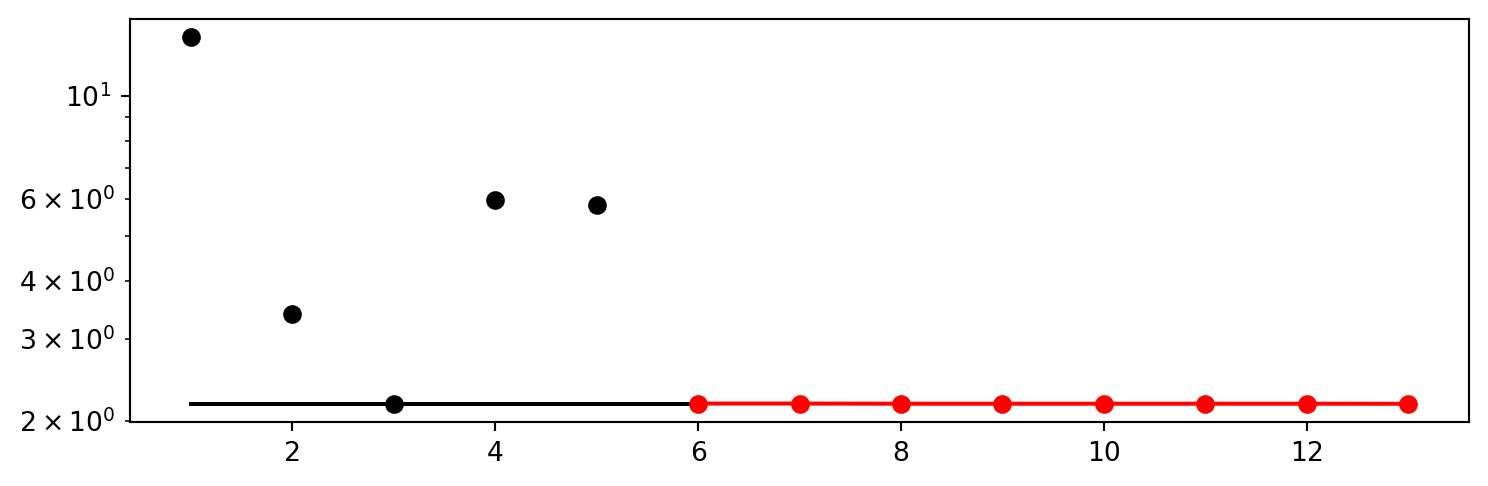
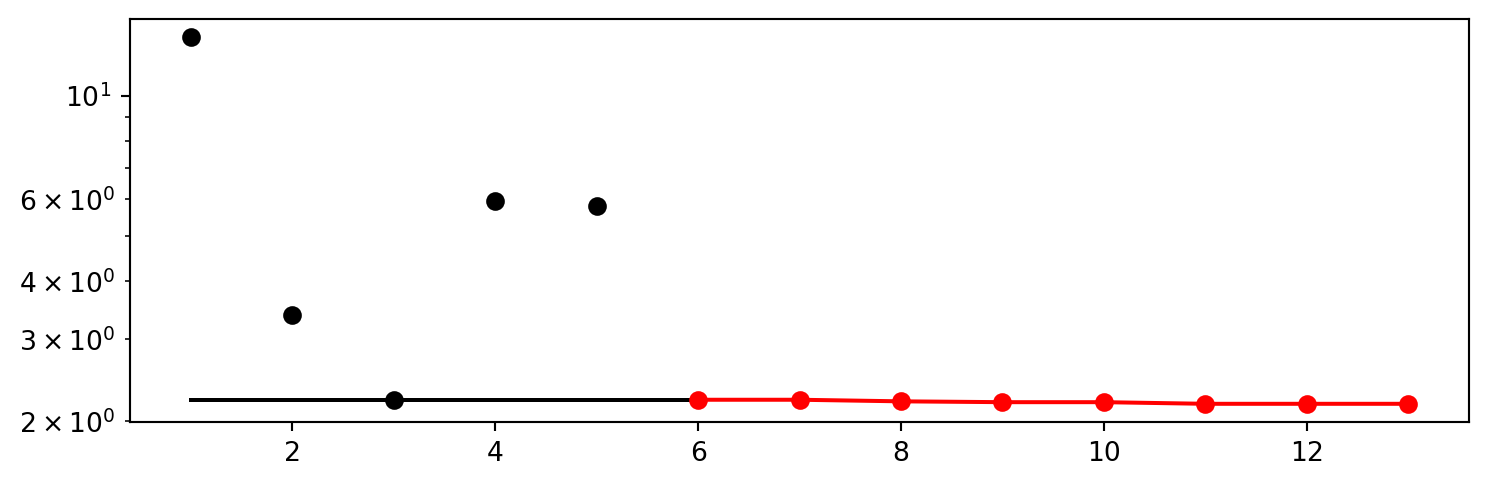
spotRiver

diff --git a/docs/13_spot_hpt_river.html b/docs/13_spot_hpt_river.html
@@ -2,7 +2,7 @@
 <html xmlns="http://www.w3.org/1999/xhtml" lang="en" xml:lang="en"><head>
 
 <meta charset="utf-8">
-<meta name="generator" content="quarto-1.3.361">
+<meta name="generator" content="quarto-1.3.450">
 
 <meta name="viewport" content="width=device-width, initial-scale=1.0, user-scalable=yes">
 
@@ -105,7 +105,7 @@ if (typeof require !== 'undefined') {
 require.undef("plotly");
 requirejs.config({
     paths: {
-        'plotly': ['https://cdn.plot.ly/plotly-2.14.0.min']
+        'plotly': ['https://cdn.plot.ly/plotly-2.26.0.min']
     }
 });
 require(['plotly'], function(Plotly) {
@@ -150,8 +150,8 @@ require(['plotly'], function(Plotly) {
     <div class="sidebar-title mb-0 py-0">
       <a href="./">Hyperparameter Tuning Cookbook</a> 
         <div class="sidebar-tools-main tools-wide">
-    <a href="https://github.com/sequential-parameter-optimization/spotPython" title="Source Code" class="quarto-navigation-tool px-1" aria-label="Source Code"><i class="bi bi-github"></i></a>
-    <a href="./Hyperparameter-Tuning-Cookbook.pdf" title="Download PDF" class="quarto-navigation-tool px-1" aria-label="Download PDF"><i class="bi bi-file-pdf"></i></a>
+    <a href="https://github.com/sequential-parameter-optimization/spotPython" rel="" title="Source Code" class="quarto-navigation-tool px-1" aria-label="Source Code"><i class="bi bi-github"></i></a>
+    <a href="./Hyperparameter-Tuning-Cookbook.pdf" rel="" title="Download PDF" class="quarto-navigation-tool px-1" aria-label="Download PDF"><i class="bi bi-file-pdf"></i></a>
     <div class="dropdown">
       <a href="" title="Share" id="quarto-navigation-tool-dropdown-0" class="quarto-navigation-tool dropdown-toggle px-1" data-bs-toggle="dropdown" aria-expanded="false" aria-label="Share"><i class="bi bi-share"></i></a>
       <ul class="dropdown-menu" aria-labelledby="quarto-navigation-tool-dropdown-0">
@@ -448,7 +448,7 @@ Caution: Run time and initial design size should be increased for real experimen
 <span id="cb2-8"><a href="#cb2-8" aria-hidden="true" tabindex="-1"></a>    TENSORBOARD_CLEAN<span class="op">=</span><span class="va">True</span>)</span>
 <span id="cb2-9"><a href="#cb2-9" aria-hidden="true" tabindex="-1"></a><span class="bu">print</span>(experiment_name)</span></code><button title="Copy to Clipboard" class="code-copy-button"><i class="bi"></i></button></pre></div>
 <div class="cell-output cell-output-stdout">
-<pre><code>13-river_maans14_2023-08-29_15-25-21</code></pre>
+<pre><code>13-river_maans14_2023-10-25_14-34-04</code></pre>
 </div>
 </div>
 <div class="callout callout-style-default callout-tip callout-titled">
@@ -735,32 +735,32 @@ Note: Total run time
 <span id="cb17-19"><a href="#cb17-19" aria-hidden="true" tabindex="-1"></a>                                      <span class="st">"model_fun_evals"</span>: <span class="dv">10_000</span>})</span>
 <span id="cb17-20"><a href="#cb17-20" aria-hidden="true" tabindex="-1"></a>spot_tuner.run(X_start<span class="op">=</span>X_start)</span></code><button title="Copy to Clipboard" class="code-copy-button"><i class="bi"></i></button></pre></div>
 <div class="cell-output cell-output-stdout">
-<pre><code>spotPython tuning: 2.1790137191242294 [#---------] 12.10% </code></pre>
+<pre><code>spotPython tuning: 2.2246840862462056 [##--------] 16.92% </code></pre>
 </div>
 <div class="cell-output cell-output-stdout">
-<pre><code>spotPython tuning: 2.1790137191242294 [###-------] 28.31% </code></pre>
+<pre><code>spotPython tuning: 2.2246840862462056 [###-------] 29.17% </code></pre>
 </div>
 <div class="cell-output cell-output-stdout">
-<pre><code>spotPython tuning: 2.17739338724255 [####------] 38.44% </code></pre>
+<pre><code>spotPython tuning: 2.207374769326934 [####------] 40.23% </code></pre>
 </div>
 <div class="cell-output cell-output-stdout">
-<pre><code>spotPython tuning: 2.17739338724255 [#####-----] 50.52% </code></pre>
+<pre><code>spotPython tuning: 2.1982732557820537 [#####-----] 51.21% </code></pre>
 </div>
 <div class="cell-output cell-output-stdout">
-<pre><code>spotPython tuning: 2.17739338724255 [######----] 63.09% </code></pre>
+<pre><code>spotPython tuning: 2.1982732557820537 [######----] 61.91% </code></pre>
 </div>
 <div class="cell-output cell-output-stdout">
-<pre><code>spotPython tuning: 2.17739338724255 [#######---] 74.30% </code></pre>
+<pre><code>spotPython tuning: 2.180556227937871 [########--] 78.34% </code></pre>
 </div>
 <div class="cell-output cell-output-stdout">
-<pre><code>spotPython tuning: 2.17739338724255 [#########-] 85.21% </code></pre>
+<pre><code>spotPython tuning: 2.180556227937871 [#########-] 93.63% </code></pre>
 </div>
 <div class="cell-output cell-output-stdout">
-<pre><code>spotPython tuning: 2.1762140343899947 [##########] 100.00% Done...
+<pre><code>spotPython tuning: 2.180556227937871 [##########] 100.00% Done...
 </code></pre>
 </div>
 <div class="cell-output cell-output-display" data-execution_count="16">
-<pre><code>&lt;spotPython.spot.spot.Spot at 0x348e7bf40&gt;</code></pre>
+<pre><code>&lt;spotPython.spot.spot.Spot at 0x32ced7880&gt;</code></pre>
 </div>
 </div>
 </section>
@@ -820,33 +820,33 @@ Tip: TENSORBOARD_PATH
 <div class="cell" data-execution_count="21">
 <div class="sourceCode cell-code" id="cb34"><pre class="sourceCode python code-with-copy"><code class="sourceCode python"><span id="cb34-1"><a href="#cb34-1" aria-hidden="true" tabindex="-1"></a><span class="bu">print</span>(gen_design_table(fun_control<span class="op">=</span>fun_control, spot<span class="op">=</span>spot_tuner))</span></code><button title="Copy to Clipboard" class="code-copy-button"><i class="bi"></i></button></pre></div>
 <div class="cell-output cell-output-stdout">
-<pre><code>| name                   | type   | default          |    lower |     upper |                 tuned | transform             |   importance | stars   |
-|------------------------|--------|------------------|----------|-----------|-----------------------|-----------------------|--------------|---------|
-| grace_period           | int    | 200              |     10.0 |    1000.0 |                 988.0 | None                  |         0.00 |         |
-| max_depth              | int    | 20               |      2.0 |      20.0 |                  19.0 | transform_power_2_int |         0.00 |         |
-| delta                  | float  | 1e-07            |    1e-10 |     1e-06 | 4.296337306805922e-08 | None                  |         0.00 |         |
-| tau                    | float  | 0.05             |     0.01 |       0.1 |  0.010000000202391524 | None                  |         0.00 |         |
-| leaf_prediction        | factor | mean             |      0.0 |       2.0 |                   1.0 | None                  |         0.00 |         |
-| leaf_model             | factor | LinearRegression |      0.0 |       2.0 |                   0.0 | None                  |         2.14 | *       |
-| model_selector_decay   | float  | 0.95             |      0.9 |      0.99 |                  0.99 | None                  |         0.00 |         |
-| splitter               | factor | EBSTSplitter     |      0.0 |       2.0 |                   2.0 | None                  |       100.00 | ***     |
-| min_samples_split      | int    | 5                |      2.0 |      10.0 |                   4.0 | None                  |         0.00 |         |
-| bootstrap_sampling     | factor | 0                |      0.0 |       1.0 |                   0.0 | None                  |         0.00 |         |
-| drift_window_threshold | int    | 300              |    100.0 |     500.0 |                 317.0 | None                  |         0.00 |         |
-| switch_significance    | float  | 0.05             |     0.01 |       0.1 |  0.010000002206367637 | None                  |         0.00 |         |
-| binary_split           | factor | 0                |      0.0 |       1.0 |                   0.0 | None                  |         0.00 |         |
-| max_size               | float  | 500.0            |    100.0 |    1000.0 |     647.2847232341899 | None                  |         0.01 |         |
-| memory_estimate_period | int    | 1000000          | 100000.0 | 1000000.0 |              950559.0 | None                  |         0.00 |         |
-| stop_mem_management    | factor | 0                |      0.0 |       1.0 |                   1.0 | None                  |         0.01 |         |
-| remove_poor_attrs      | factor | 0                |      0.0 |       1.0 |                   1.0 | None                  |         0.00 |         |
-| merit_preprune         | factor | 0                |      0.0 |       0.0 |                   0.0 | None                  |         0.00 |         |</code></pre>
+<pre><code>| name                   | type   | default          |    lower |     upper |            tuned | transform             |   importance | stars   |
+|------------------------|--------|------------------|----------|-----------|------------------|-----------------------|--------------|---------|
+| grace_period           | int    | 200              |     10.0 |    1000.0 |            344.0 | None                  |         0.00 |         |
+| max_depth              | int    | 20               |      2.0 |      20.0 |             18.0 | transform_power_2_int |         0.00 |         |
+| delta                  | float  | 1e-07            |    1e-10 |     1e-06 |            1e-06 | None                  |         0.00 |         |
+| tau                    | float  | 0.05             |     0.01 |       0.1 |              0.1 | None                  |         0.00 |         |
+| leaf_prediction        | factor | mean             |      0.0 |       2.0 |              1.0 | None                  |        10.02 | *       |
+| leaf_model             | factor | LinearRegression |      0.0 |       2.0 |              0.0 | None                  |       100.00 | ***     |
+| model_selector_decay   | float  | 0.95             |      0.9 |      0.99 |             0.99 | None                  |         0.00 |         |
+| splitter               | factor | EBSTSplitter     |      0.0 |       2.0 |              2.0 | None                  |         0.00 |         |
+| min_samples_split      | int    | 5                |      2.0 |      10.0 |              6.0 | None                  |         0.00 |         |
+| bootstrap_sampling     | factor | 0                |      0.0 |       1.0 |              1.0 | None                  |         0.03 |         |
+| drift_window_threshold | int    | 300              |    100.0 |     500.0 |            203.0 | None                  |         0.00 |         |
+| switch_significance    | float  | 0.05             |     0.01 |       0.1 |             0.01 | None                  |         0.00 |         |
+| binary_split           | factor | 0                |      0.0 |       1.0 |              1.0 | None                  |         0.00 |         |
+| max_size               | float  | 500.0            |    100.0 |    1000.0 | 999.578582022267 | None                  |         0.00 |         |
+| memory_estimate_period | int    | 1000000          | 100000.0 | 1000000.0 |         999053.0 | None                  |         0.00 |         |
+| stop_mem_management    | factor | 0                |      0.0 |       1.0 |              1.0 | None                  |         0.00 |         |
+| remove_poor_attrs      | factor | 0                |      0.0 |       1.0 |              1.0 | None                  |         0.00 |         |
+| merit_preprune         | factor | 0                |      0.0 |       0.0 |              0.0 | None                  |         0.00 |         |</code></pre>
 </div>
 </div>
 <p>A histogram can be used to visualize the most important hyperparameters.</p>
 <div class="cell" data-execution_count="22">
 <div class="sourceCode cell-code" id="cb36"><pre class="sourceCode python code-with-copy"><code class="sourceCode python"><span id="cb36-1"><a href="#cb36-1" aria-hidden="true" tabindex="-1"></a>spot_tuner.plot_importance(threshold<span class="op">=</span><span class="fl">0.0025</span>, filename<span class="op">=</span><span class="st">"./figures/"</span> <span class="op">+</span> experiment_name<span class="op">+</span><span class="st">"_importance.pdf"</span>)</span></code><button title="Copy to Clipboard" class="code-copy-button"><i class="bi"></i></button></pre></div>
 <div class="cell-output cell-output-display">
-<p><img src="13_spot_hpt_river_files/figure-html/cell-23-output-1.png" width="594" height="411"></p>
+<p><img src="13_spot_hpt_river_files/figure-html/cell-23-output-1.png" width="575" height="411"></p>
 </div>
 </div>
 </section>
@@ -1077,16 +1077,16 @@ Caution: Large Trees
 <div class="cell" data-execution_count="41">
 <div class="sourceCode cell-code" id="cb56"><pre class="sourceCode python code-with-copy"><code class="sourceCode python"><span id="cb56-1"><a href="#cb56-1" aria-hidden="true" tabindex="-1"></a>model_spot.summary</span></code><button title="Copy to Clipboard" class="code-copy-button"><i class="bi"></i></button></pre></div>
 <div class="cell-output cell-output-display" data-execution_count="41">
-<pre><code>{'n_nodes': 11,
- 'n_branches': 5,
- 'n_leaves': 6,
- 'n_active_leaves': 26,
+<pre><code>{'n_nodes': 83,
+ 'n_branches': 41,
+ 'n_leaves': 42,
+ 'n_active_leaves': 100,
  'n_inactive_leaves': 0,
- 'height': 5,
+ 'height': 11,
  'total_observed_weight': 39002.0,
- 'n_alternate_trees': 9,
- 'n_pruned_alternate_trees': 1,
- 'n_switch_alternate_trees': 1}</code></pre>
+ 'n_alternate_trees': 24,
+ 'n_pruned_alternate_trees': 14,
+ 'n_switch_alternate_trees': 0}</code></pre>
 </div>
 </div>
 <div class="cell" data-execution_count="42">
@@ -1095,16 +1095,16 @@ Caution: Large Trees
 <div class="cell-output cell-output-stdout">
 <pre><code>| Parameter                |   Default |   Spot |
 |--------------------------|-----------|--------|
-| n_nodes                  |        35 |     11 |
-| n_branches               |        17 |      5 |
-| n_leaves                 |        18 |      6 |
-| n_active_leaves          |        96 |     26 |
+| n_nodes                  |        35 |     83 |
+| n_branches               |        17 |     41 |
+| n_leaves                 |        18 |     42 |
+| n_active_leaves          |        96 |    100 |
 | n_inactive_leaves        |         0 |      0 |
-| height                   |         6 |      5 |
+| height                   |         6 |     11 |
 | total_observed_weight    |     39002 |  39002 |
-| n_alternate_trees        |        21 |      9 |
-| n_pruned_alternate_trees |         6 |      1 |
-| n_switch_alternate_trees |         2 |      1 |</code></pre>
+| n_alternate_trees        |        21 |     24 |
+| n_pruned_alternate_trees |         6 |     14 |
+| n_switch_alternate_trees |         2 |      0 |</code></pre>
 </div>
 </div>
 </section>
@@ -1115,11 +1115,18 @@ Caution: Large Trees
 <div class="sourceCode cell-code" id="cb60"><pre class="sourceCode python code-with-copy"><code class="sourceCode python"><span id="cb60-1"><a href="#cb60-1" aria-hidden="true" tabindex="-1"></a>filename <span class="op">=</span> <span class="st">"./figures/"</span> <span class="op">+</span> experiment_name</span>
 <span id="cb60-2"><a href="#cb60-2" aria-hidden="true" tabindex="-1"></a>spot_tuner.plot_important_hyperparameter_contour(filename<span class="op">=</span>filename)</span></code><button title="Copy to Clipboard" class="code-copy-button"><i class="bi"></i></button></pre></div>
 <div class="cell-output cell-output-stdout">
-<pre><code>leaf_model:  2.1385213464088135
-splitter:  100.0</code></pre>
+<pre><code>leaf_prediction:  10.020870999449848
+leaf_model:  100.0
+bootstrap_sampling:  0.034994178133929604</code></pre>
 </div>
 <div class="cell-output cell-output-display">
 <p><img src="13_spot_hpt_river_files/figure-html/cell-44-output-2.png" width="717" height="281"></p>
+</div>
+<div class="cell-output cell-output-display">
+<p><img src="13_spot_hpt_river_files/figure-html/cell-44-output-3.png" width="705" height="281"></p>
+</div>
+<div class="cell-output cell-output-display">
+<p><img src="13_spot_hpt_river_files/figure-html/cell-44-output-4.png" width="717" height="281"></p>
 </div>
 </div>
 </section>
@@ -1129,9 +1136,9 @@ splitter:  100.0</code></pre>
 <div class="sourceCode cell-code" id="cb62"><pre class="sourceCode python code-with-copy"><code class="sourceCode python"><span id="cb62-1"><a href="#cb62-1" aria-hidden="true" tabindex="-1"></a>spot_tuner.parallel_plot()</span></code><button title="Copy to Clipboard" class="code-copy-button"><i class="bi"></i></button></pre></div>
 <div class="cell-output cell-output-display">
 
-<div>                            <div id="67b96029-6568-4a4b-9d87-6713242f312f" class="plotly-graph-div" style="height:525px; width:100%;"></div>            <script type="text/javascript">                require(["plotly"], function(Plotly) {                    window.PLOTLYENV=window.PLOTLYENV || {};                                    if (document.getElementById("67b96029-6568-4a4b-9d87-6713242f312f")) {                    Plotly.newPlot(                        "67b96029-6568-4a4b-9d87-6713242f312f",                        [{"dimensions":[{"label":"grace_period","range":[21.0,988.0],"values":[469.0,360.0,657.0,949.0,21.0,216.0,156.0,684.0,932.0,115.0,906.0,943.0,988.0]},{"label":"max_depth","range":[4.0,20.0],"values":[20.0,10.0,8.0,6.0,15.0,13.0,14.0,6.0,13.0,4.0,8.0,10.0,19.0]},{"label":"delta","range":[1e-10,1e-06],"values":[9.55932432642933e-07,2.964373559301942e-07,4.068723023437076e-08,5.238340717917925e-07,7.029014322120622e-07,1e-10,1e-10,1e-10,1e-10,1e-10,1e-06,1e-10,4.296337306805922e-08]},{"label":"tau","range":[0.01,0.1],"values":[0.02468130740742395,0.07783199875329279,0.04842600916881275,0.035634284487334605,0.0906559274083691,0.1,0.1,0.01,0.1,0.1,0.01,0.01,0.010000000202391524]},{"label":"leaf_prediction","range":[0.0,2.0],"values":[1.0,0.0,2.0,1.0,1.0,2.0,1.0,1.0,1.0,1.0,0.0,1.0,1.0]},{"label":"leaf_model","range":[0.0,2.0],"values":[2.0,1.0,0.0,1.0,1.0,1.0,0.0,0.0,0.0,0.0,0.0,0.0,0.0]},{"label":"model_selector_decay","range":[0.9,0.99],"values":[0.937379790035513,0.9075109564689242,0.9707132374807789,0.9249031574746166,0.9887336878810369,0.99,0.99,0.99,0.99,0.99,0.9,0.9,0.99]},{"label":"splitter","range":[0.0,2.0],"values":[0.0,2.0,2.0,1.0,1.0,2.0,2.0,2.0,2.0,2.0,2.0,2.0,2.0]},{"label":"min_samples_split","range":[3.0,10.0],"values":[9.0,4.0,5.0,7.0,6.0,5.0,6.0,4.0,6.0,3.0,10.0,6.0,4.0]},{"label":"bootstrap_sampling","range":[0.0,1.0],"values":[1.0,0.0,1.0,0.0,0.0,1.0,1.0,0.0,0.0,1.0,1.0,1.0,0.0]},{"label":"drift_window_threshold","range":[102.0,459.0],"values":[459.0,282.0,166.0,359.0,226.0,146.0,102.0,163.0,162.0,123.0,220.0,287.0,317.0]},{"label":"switch_significance","range":[0.01,0.1],"values":[0.07759063718076166,0.04746519114807623,0.0403706393874862,0.08981039644611907,0.022549561610997082,0.01,0.01,0.01,0.1,0.01,0.1,0.1,0.010000002206367637]},{"label":"binary_split","range":[0.0,1.0],"values":[1.0,1.0,0.0,1.0,0.0,0.0,0.0,0.0,0.0,0.0,0.0,1.0,0.0]},{"label":"max_size","range":[123.91455852508763,1000.0],"values":[241.5226665924828,474.9179369414316,454.1406541108139,928.6922000048638,683.8337853737277,123.91455852508763,171.92931517059776,610.2199859653721,319.0126014110257,131.0604876174532,999.7163369127608,1000.0,647.2847232341899]},{"label":"memory_estimate_period","range":[120750.0,997340.0],"values":[506536.0,124356.0,910594.0,455998.0,806036.0,997061.0,956324.0,985646.0,997340.0,984910.0,820385.0,120750.0,950559.0]},{"label":"stop_mem_management","range":[0.0,1.0],"values":[0.0,1.0,1.0,1.0,0.0,1.0,1.0,0.0,1.0,0.0,0.0,1.0,1.0]},{"label":"remove_poor_attrs","range":[0.0,1.0],"values":[1.0,0.0,1.0,0.0,0.0,1.0,0.0,1.0,1.0,1.0,0.0,0.0,1.0]}],"line":{"cmax":13.362997181954016,"cmin":2.1762140343899947,"color":[13.362997181954016,3.3864695972327836,2.1790137191242294,5.957634453378607,5.814240280007989,3.237769730138962,2.2543617003304846,2.17739338724255,2.1782962181176213,2.3485611083769857,3.444639248789628,2.2446644642963345,2.1762140343899947],"colorscale":[[0.0,"rgb(0,0,131)"],[0.2,"rgb(0,60,170)"],[0.4,"rgb(5,255,255)"],[0.6,"rgb(255,255,0)"],[0.8,"rgb(250,0,0)"],[1.0,"rgb(128,0,0)"]],"showscale":true},"type":"parcoords"}],                        {"template":{"data":{"histogram2dcontour":[{"type":"histogram2dcontour","colorbar":{"outlinewidth":0,"ticks":""},"colorscale":[[0.0,"#0d0887"],[0.1111111111111111,"#46039f"],[0.2222222222222222,"#7201a8"],[0.3333333333333333,"#9c179e"],[0.4444444444444444,"#bd3786"],[0.5555555555555556,"#d8576b"],[0.6666666666666666,"#ed7953"],[0.7777777777777778,"#fb9f3a"],[0.8888888888888888,"#fdca26"],[1.0,"#f0f921"]]}],"choropleth":[{"type":"choropleth","colorbar":{"outlinewidth":0,"ticks":""}}],"histogram2d":[{"type":"histogram2d","colorbar":{"outlinewidth":0,"ticks":""},"colorscale":[[0.0,"#0d0887"],[0.1111111111111111,"#46039f"],[0.2222222222222222,"#7201a8"],[0.3333333333333333,"#9c179e"],[0.4444444444444444,"#bd3786"],[0.5555555555555556,"#d8576b"],[0.6666666666666666,"#ed7953"],[0.7777777777777778,"#fb9f3a"],[0.8888888888888888,"#fdca26"],[1.0,"#f0f921"]]}],"heatmap":[{"type":"heatmap","colorbar":{"outlinewidth":0,"ticks":""},"colorscale":[[0.0,"#0d0887"],[0.1111111111111111,"#46039f"],[0.2222222222222222,"#7201a8"],[0.3333333333333333,"#9c179e"],[0.4444444444444444,"#bd3786"],[0.5555555555555556,"#d8576b"],[0.6666666666666666,"#ed7953"],[0.7777777777777778,"#fb9f3a"],[0.8888888888888888,"#fdca26"],[1.0,"#f0f921"]]}],"heatmapgl":[{"type":"heatmapgl","colorbar":{"outlinewidth":0,"ticks":""},"colorscale":[[0.0,"#0d0887"],[0.1111111111111111,"#46039f"],[0.2222222222222222,"#7201a8"],[0.3333333333333333,"#9c179e"],[0.4444444444444444,"#bd3786"],[0.5555555555555556,"#d8576b"],[0.6666666666666666,"#ed7953"],[0.7777777777777778,"#fb9f3a"],[0.8888888888888888,"#fdca26"],[1.0,"#f0f921"]]}],"contourcarpet":[{"type":"contourcarpet","colorbar":{"outlinewidth":0,"ticks":""}}],"contour":[{"type":"contour","colorbar":{"outlinewidth":0,"ticks":""},"colorscale":[[0.0,"#0d0887"],[0.1111111111111111,"#46039f"],[0.2222222222222222,"#7201a8"],[0.3333333333333333,"#9c179e"],[0.4444444444444444,"#bd3786"],[0.5555555555555556,"#d8576b"],[0.6666666666666666,"#ed7953"],[0.7777777777777778,"#fb9f3a"],[0.8888888888888888,"#fdca26"],[1.0,"#f0f921"]]}],"surface":[{"type":"surface","colorbar":{"outlinewidth":0,"ticks":""},"colorscale":[[0.0,"#0d0887"],[0.1111111111111111,"#46039f"],[0.2222222222222222,"#7201a8"],[0.3333333333333333,"#9c179e"],[0.4444444444444444,"#bd3786"],[0.5555555555555556,"#d8576b"],[0.6666666666666666,"#ed7953"],[0.7777777777777778,"#fb9f3a"],[0.8888888888888888,"#fdca26"],[1.0,"#f0f921"]]}],"mesh3d":[{"type":"mesh3d","colorbar":{"outlinewidth":0,"ticks":""}}],"scatter":[{"fillpattern":{"fillmode":"overlay","size":10,"solidity":0.2},"type":"scatter"}],"parcoords":[{"type":"parcoords","line":{"colorbar":{"outlinewidth":0,"ticks":""}}}],"scatterpolargl":[{"type":"scatterpolargl","marker":{"colorbar":{"outlinewidth":0,"ticks":""}}}],"bar":[{"error_x":{"color":"#2a3f5f"},"error_y":{"color":"#2a3f5f"},"marker":{"line":{"color":"#E5ECF6","width":0.5},"pattern":{"fillmode":"overlay","size":10,"solidity":0.2}},"type":"bar"}],"scattergeo":[{"type":"scattergeo","marker":{"colorbar":{"outlinewidth":0,"ticks":""}}}],"scatterpolar":[{"type":"scatterpolar","marker":{"colorbar":{"outlinewidth":0,"ticks":""}}}],"histogram":[{"marker":{"pattern":{"fillmode":"overlay","size":10,"solidity":0.2}},"type":"histogram"}],"scattergl":[{"type":"scattergl","marker":{"colorbar":{"outlinewidth":0,"ticks":""}}}],"scatter3d":[{"type":"scatter3d","line":{"colorbar":{"outlinewidth":0,"ticks":""}},"marker":{"colorbar":{"outlinewidth":0,"ticks":""}}}],"scattermapbox":[{"type":"scattermapbox","marker":{"colorbar":{"outlinewidth":0,"ticks":""}}}],"scatterternary":[{"type":"scatterternary","marker":{"colorbar":{"outlinewidth":0,"ticks":""}}}],"scattercarpet":[{"type":"scattercarpet","marker":{"colorbar":{"outlinewidth":0,"ticks":""}}}],"carpet":[{"aaxis":{"endlinecolor":"#2a3f5f","gridcolor":"white","linecolor":"white","minorgridcolor":"white","startlinecolor":"#2a3f5f"},"baxis":{"endlinecolor":"#2a3f5f","gridcolor":"white","linecolor":"white","minorgridcolor":"white","startlinecolor":"#2a3f5f"},"type":"carpet"}],"table":[{"cells":{"fill":{"color":"#EBF0F8"},"line":{"color":"white"}},"header":{"fill":{"color":"#C8D4E3"},"line":{"color":"white"}},"type":"table"}],"barpolar":[{"marker":{"line":{"color":"#E5ECF6","width":0.5},"pattern":{"fillmode":"overlay","size":10,"solidity":0.2}},"type":"barpolar"}],"pie":[{"automargin":true,"type":"pie"}]},"layout":{"autotypenumbers":"strict","colorway":["#636efa","#EF553B","#00cc96","#ab63fa","#FFA15A","#19d3f3","#FF6692","#B6E880","#FF97FF","#FECB52"],"font":{"color":"#2a3f5f"},"hovermode":"closest","hoverlabel":{"align":"left"},"paper_bgcolor":"white","plot_bgcolor":"#E5ECF6","polar":{"bgcolor":"#E5ECF6","angularaxis":{"gridcolor":"white","linecolor":"white","ticks":""},"radialaxis":{"gridcolor":"white","linecolor":"white","ticks":""}},"ternary":{"bgcolor":"#E5ECF6","aaxis":{"gridcolor":"white","linecolor":"white","ticks":""},"baxis":{"gridcolor":"white","linecolor":"white","ticks":""},"caxis":{"gridcolor":"white","linecolor":"white","ticks":""}},"coloraxis":{"colorbar":{"outlinewidth":0,"ticks":""}},"colorscale":{"sequential":[[0.0,"#0d0887"],[0.1111111111111111,"#46039f"],[0.2222222222222222,"#7201a8"],[0.3333333333333333,"#9c179e"],[0.4444444444444444,"#bd3786"],[0.5555555555555556,"#d8576b"],[0.6666666666666666,"#ed7953"],[0.7777777777777778,"#fb9f3a"],[0.8888888888888888,"#fdca26"],[1.0,"#f0f921"]],"sequentialminus":[[0.0,"#0d0887"],[0.1111111111111111,"#46039f"],[0.2222222222222222,"#7201a8"],[0.3333333333333333,"#9c179e"],[0.4444444444444444,"#bd3786"],[0.5555555555555556,"#d8576b"],[0.6666666666666666,"#ed7953"],[0.7777777777777778,"#fb9f3a"],[0.8888888888888888,"#fdca26"],[1.0,"#f0f921"]],"diverging":[[0,"#8e0152"],[0.1,"#c51b7d"],[0.2,"#de77ae"],[0.3,"#f1b6da"],[0.4,"#fde0ef"],[0.5,"#f7f7f7"],[0.6,"#e6f5d0"],[0.7,"#b8e186"],[0.8,"#7fbc41"],[0.9,"#4d9221"],[1,"#276419"]]},"xaxis":{"gridcolor":"white","linecolor":"white","ticks":"","title":{"standoff":15},"zerolinecolor":"white","automargin":true,"zerolinewidth":2},"yaxis":{"gridcolor":"white","linecolor":"white","ticks":"","title":{"standoff":15},"zerolinecolor":"white","automargin":true,"zerolinewidth":2},"scene":{"xaxis":{"backgroundcolor":"#E5ECF6","gridcolor":"white","linecolor":"white","showbackground":true,"ticks":"","zerolinecolor":"white","gridwidth":2},"yaxis":{"backgroundcolor":"#E5ECF6","gridcolor":"white","linecolor":"white","showbackground":true,"ticks":"","zerolinecolor":"white","gridwidth":2},"zaxis":{"backgroundcolor":"#E5ECF6","gridcolor":"white","linecolor":"white","showbackground":true,"ticks":"","zerolinecolor":"white","gridwidth":2}},"shapedefaults":{"line":{"color":"#2a3f5f"}},"annotationdefaults":{"arrowcolor":"#2a3f5f","arrowhead":0,"arrowwidth":1},"geo":{"bgcolor":"white","landcolor":"#E5ECF6","subunitcolor":"white","showland":true,"showlakes":true,"lakecolor":"white"},"title":{"x":0.05},"mapbox":{"style":"light"}}}},                        {"responsive": true}                    ).then(function(){
+<div>                            <div id="f1170a22-c0d2-481f-8a63-8325adc1f32d" class="plotly-graph-div" style="height:525px; width:100%;"></div>            <script type="text/javascript">                require(["plotly"], function(Plotly) {                    window.PLOTLYENV=window.PLOTLYENV || {};                                    if (document.getElementById("f1170a22-c0d2-481f-8a63-8325adc1f32d")) {                    Plotly.newPlot(                        "f1170a22-c0d2-481f-8a63-8325adc1f32d",                        [{"dimensions":[{"label":"grace_period","range":[21.0,949.0],"values":[469.0,360.0,657.0,949.0,21.0,56.0,916.0,289.0,600.0,777.0,344.0,322.0,94.0]},{"label":"max_depth","range":[3.0,20.0],"values":[20.0,10.0,8.0,6.0,15.0,19.0,3.0,5.0,18.0,11.0,18.0,20.0,18.0]},{"label":"delta","range":[1e-10,1e-06],"values":[9.55932432642933e-07,2.964373559301942e-07,4.068723023437076e-08,5.238340717917925e-07,7.029014322120622e-07,1e-06,1e-10,1e-10,1e-10,1e-10,1e-06,1e-10,1e-06]},{"label":"tau","range":[0.01,0.1],"values":[0.02468130740742395,0.07783199875329279,0.04842600916881275,0.035634284487334605,0.0906559274083691,0.1,0.01,0.1,0.1,0.01,0.1,0.1,0.1]},{"label":"leaf_prediction","range":[0.0,2.0],"values":[1.0,0.0,2.0,1.0,1.0,1.0,1.0,1.0,2.0,0.0,1.0,1.0,2.0]},{"label":"leaf_model","range":[0.0,2.0],"values":[2.0,1.0,0.0,1.0,1.0,0.0,0.0,0.0,0.0,0.0,0.0,1.0,0.0]},{"label":"model_selector_decay","range":[0.9,0.99],"values":[0.937379790035513,0.9075109564689242,0.9707132374807789,0.9249031574746166,0.9887336878810369,0.99,0.99,0.9,0.99,0.99,0.99,0.99,0.9]},{"label":"splitter","range":[0.0,2.0],"values":[0.0,2.0,2.0,1.0,1.0,2.0,2.0,2.0,2.0,2.0,2.0,2.0,1.0]},{"label":"min_samples_split","range":[3.0,9.0],"values":[9.0,4.0,5.0,7.0,6.0,8.0,3.0,6.0,7.0,6.0,6.0,3.0,8.0]},{"label":"bootstrap_sampling","range":[0.0,1.0],"values":[1.0,0.0,1.0,0.0,0.0,0.0,1.0,1.0,1.0,1.0,1.0,0.0,1.0]},{"label":"drift_window_threshold","range":[100.0,459.0],"values":[459.0,282.0,166.0,359.0,226.0,101.0,302.0,102.0,105.0,100.0,203.0,376.0,105.0]},{"label":"switch_significance","range":[0.01,0.1],"values":[0.07759063718076166,0.04746519114807623,0.0403706393874862,0.08981039644611907,0.022549561610997082,0.01,0.01,0.1,0.1,0.1,0.01,0.1,0.01]},{"label":"binary_split","range":[0.0,1.0],"values":[1.0,1.0,0.0,1.0,0.0,0.0,0.0,0.0,0.0,0.0,1.0,0.0,1.0]},{"label":"max_size","range":[105.83817573018763,999.578582022267],"values":[241.5226665924828,474.9179369414316,454.1406541108139,928.6922000048638,683.8337853737277,130.17874460957665,839.4715020974503,224.07608809670884,155.54022470956272,105.83817573018763,999.578582022267,977.8556100175329,949.793006037248]},{"label":"memory_estimate_period","range":[124356.0,999053.0],"values":[506536.0,124356.0,910594.0,455998.0,806036.0,885867.0,990509.0,725461.0,963206.0,880980.0,999053.0,842127.0,721888.0]},{"label":"stop_mem_management","range":[0.0,1.0],"values":[0.0,1.0,1.0,1.0,0.0,1.0,0.0,1.0,1.0,1.0,1.0,0.0,0.0]},{"label":"remove_poor_attrs","range":[0.0,1.0],"values":[1.0,0.0,1.0,0.0,0.0,0.0,0.0,1.0,1.0,0.0,1.0,1.0,1.0]}],"line":{"cmax":13.362992970881097,"cmin":2.180556227937871,"color":[13.362992970881097,3.386468850634742,2.2246840862462056,5.957811391836779,5.814396185338916,2.265083433776896,2.2698649618078144,2.207374769326934,2.1982732557820537,3.4015137532531616,2.180556227937871,5.913953927001149,2.1829152890373527],"colorscale":[[0.0,"rgb(0,0,131)"],[0.2,"rgb(0,60,170)"],[0.4,"rgb(5,255,255)"],[0.6,"rgb(255,255,0)"],[0.8,"rgb(250,0,0)"],[1.0,"rgb(128,0,0)"]],"showscale":true},"type":"parcoords"}],                        {"template":{"data":{"histogram2dcontour":[{"type":"histogram2dcontour","colorbar":{"outlinewidth":0,"ticks":""},"colorscale":[[0.0,"#0d0887"],[0.1111111111111111,"#46039f"],[0.2222222222222222,"#7201a8"],[0.3333333333333333,"#9c179e"],[0.4444444444444444,"#bd3786"],[0.5555555555555556,"#d8576b"],[0.6666666666666666,"#ed7953"],[0.7777777777777778,"#fb9f3a"],[0.8888888888888888,"#fdca26"],[1.0,"#f0f921"]]}],"choropleth":[{"type":"choropleth","colorbar":{"outlinewidth":0,"ticks":""}}],"histogram2d":[{"type":"histogram2d","colorbar":{"outlinewidth":0,"ticks":""},"colorscale":[[0.0,"#0d0887"],[0.1111111111111111,"#46039f"],[0.2222222222222222,"#7201a8"],[0.3333333333333333,"#9c179e"],[0.4444444444444444,"#bd3786"],[0.5555555555555556,"#d8576b"],[0.6666666666666666,"#ed7953"],[0.7777777777777778,"#fb9f3a"],[0.8888888888888888,"#fdca26"],[1.0,"#f0f921"]]}],"heatmap":[{"type":"heatmap","colorbar":{"outlinewidth":0,"ticks":""},"colorscale":[[0.0,"#0d0887"],[0.1111111111111111,"#46039f"],[0.2222222222222222,"#7201a8"],[0.3333333333333333,"#9c179e"],[0.4444444444444444,"#bd3786"],[0.5555555555555556,"#d8576b"],[0.6666666666666666,"#ed7953"],[0.7777777777777778,"#fb9f3a"],[0.8888888888888888,"#fdca26"],[1.0,"#f0f921"]]}],"heatmapgl":[{"type":"heatmapgl","colorbar":{"outlinewidth":0,"ticks":""},"colorscale":[[0.0,"#0d0887"],[0.1111111111111111,"#46039f"],[0.2222222222222222,"#7201a8"],[0.3333333333333333,"#9c179e"],[0.4444444444444444,"#bd3786"],[0.5555555555555556,"#d8576b"],[0.6666666666666666,"#ed7953"],[0.7777777777777778,"#fb9f3a"],[0.8888888888888888,"#fdca26"],[1.0,"#f0f921"]]}],"contourcarpet":[{"type":"contourcarpet","colorbar":{"outlinewidth":0,"ticks":""}}],"contour":[{"type":"contour","colorbar":{"outlinewidth":0,"ticks":""},"colorscale":[[0.0,"#0d0887"],[0.1111111111111111,"#46039f"],[0.2222222222222222,"#7201a8"],[0.3333333333333333,"#9c179e"],[0.4444444444444444,"#bd3786"],[0.5555555555555556,"#d8576b"],[0.6666666666666666,"#ed7953"],[0.7777777777777778,"#fb9f3a"],[0.8888888888888888,"#fdca26"],[1.0,"#f0f921"]]}],"surface":[{"type":"surface","colorbar":{"outlinewidth":0,"ticks":""},"colorscale":[[0.0,"#0d0887"],[0.1111111111111111,"#46039f"],[0.2222222222222222,"#7201a8"],[0.3333333333333333,"#9c179e"],[0.4444444444444444,"#bd3786"],[0.5555555555555556,"#d8576b"],[0.6666666666666666,"#ed7953"],[0.7777777777777778,"#fb9f3a"],[0.8888888888888888,"#fdca26"],[1.0,"#f0f921"]]}],"mesh3d":[{"type":"mesh3d","colorbar":{"outlinewidth":0,"ticks":""}}],"scatter":[{"fillpattern":{"fillmode":"overlay","size":10,"solidity":0.2},"type":"scatter"}],"parcoords":[{"type":"parcoords","line":{"colorbar":{"outlinewidth":0,"ticks":""}}}],"scatterpolargl":[{"type":"scatterpolargl","marker":{"colorbar":{"outlinewidth":0,"ticks":""}}}],"bar":[{"error_x":{"color":"#2a3f5f"},"error_y":{"color":"#2a3f5f"},"marker":{"line":{"color":"#E5ECF6","width":0.5},"pattern":{"fillmode":"overlay","size":10,"solidity":0.2}},"type":"bar"}],"scattergeo":[{"type":"scattergeo","marker":{"colorbar":{"outlinewidth":0,"ticks":""}}}],"scatterpolar":[{"type":"scatterpolar","marker":{"colorbar":{"outlinewidth":0,"ticks":""}}}],"histogram":[{"marker":{"pattern":{"fillmode":"overlay","size":10,"solidity":0.2}},"type":"histogram"}],"scattergl":[{"type":"scattergl","marker":{"colorbar":{"outlinewidth":0,"ticks":""}}}],"scatter3d":[{"type":"scatter3d","line":{"colorbar":{"outlinewidth":0,"ticks":""}},"marker":{"colorbar":{"outlinewidth":0,"ticks":""}}}],"scattermapbox":[{"type":"scattermapbox","marker":{"colorbar":{"outlinewidth":0,"ticks":""}}}],"scatterternary":[{"type":"scatterternary","marker":{"colorbar":{"outlinewidth":0,"ticks":""}}}],"scattercarpet":[{"type":"scattercarpet","marker":{"colorbar":{"outlinewidth":0,"ticks":""}}}],"carpet":[{"aaxis":{"endlinecolor":"#2a3f5f","gridcolor":"white","linecolor":"white","minorgridcolor":"white","startlinecolor":"#2a3f5f"},"baxis":{"endlinecolor":"#2a3f5f","gridcolor":"white","linecolor":"white","minorgridcolor":"white","startlinecolor":"#2a3f5f"},"type":"carpet"}],"table":[{"cells":{"fill":{"color":"#EBF0F8"},"line":{"color":"white"}},"header":{"fill":{"color":"#C8D4E3"},"line":{"color":"white"}},"type":"table"}],"barpolar":[{"marker":{"line":{"color":"#E5ECF6","width":0.5},"pattern":{"fillmode":"overlay","size":10,"solidity":0.2}},"type":"barpolar"}],"pie":[{"automargin":true,"type":"pie"}]},"layout":{"autotypenumbers":"strict","colorway":["#636efa","#EF553B","#00cc96","#ab63fa","#FFA15A","#19d3f3","#FF6692","#B6E880","#FF97FF","#FECB52"],"font":{"color":"#2a3f5f"},"hovermode":"closest","hoverlabel":{"align":"left"},"paper_bgcolor":"white","plot_bgcolor":"#E5ECF6","polar":{"bgcolor":"#E5ECF6","angularaxis":{"gridcolor":"white","linecolor":"white","ticks":""},"radialaxis":{"gridcolor":"white","linecolor":"white","ticks":""}},"ternary":{"bgcolor":"#E5ECF6","aaxis":{"gridcolor":"white","linecolor":"white","ticks":""},"baxis":{"gridcolor":"white","linecolor":"white","ticks":""},"caxis":{"gridcolor":"white","linecolor":"white","ticks":""}},"coloraxis":{"colorbar":{"outlinewidth":0,"ticks":""}},"colorscale":{"sequential":[[0.0,"#0d0887"],[0.1111111111111111,"#46039f"],[0.2222222222222222,"#7201a8"],[0.3333333333333333,"#9c179e"],[0.4444444444444444,"#bd3786"],[0.5555555555555556,"#d8576b"],[0.6666666666666666,"#ed7953"],[0.7777777777777778,"#fb9f3a"],[0.8888888888888888,"#fdca26"],[1.0,"#f0f921"]],"sequentialminus":[[0.0,"#0d0887"],[0.1111111111111111,"#46039f"],[0.2222222222222222,"#7201a8"],[0.3333333333333333,"#9c179e"],[0.4444444444444444,"#bd3786"],[0.5555555555555556,"#d8576b"],[0.6666666666666666,"#ed7953"],[0.7777777777777778,"#fb9f3a"],[0.8888888888888888,"#fdca26"],[1.0,"#f0f921"]],"diverging":[[0,"#8e0152"],[0.1,"#c51b7d"],[0.2,"#de77ae"],[0.3,"#f1b6da"],[0.4,"#fde0ef"],[0.5,"#f7f7f7"],[0.6,"#e6f5d0"],[0.7,"#b8e186"],[0.8,"#7fbc41"],[0.9,"#4d9221"],[1,"#276419"]]},"xaxis":{"gridcolor":"white","linecolor":"white","ticks":"","title":{"standoff":15},"zerolinecolor":"white","automargin":true,"zerolinewidth":2},"yaxis":{"gridcolor":"white","linecolor":"white","ticks":"","title":{"standoff":15},"zerolinecolor":"white","automargin":true,"zerolinewidth":2},"scene":{"xaxis":{"backgroundcolor":"#E5ECF6","gridcolor":"white","linecolor":"white","showbackground":true,"ticks":"","zerolinecolor":"white","gridwidth":2},"yaxis":{"backgroundcolor":"#E5ECF6","gridcolor":"white","linecolor":"white","showbackground":true,"ticks":"","zerolinecolor":"white","gridwidth":2},"zaxis":{"backgroundcolor":"#E5ECF6","gridcolor":"white","linecolor":"white","showbackground":true,"ticks":"","zerolinecolor":"white","gridwidth":2}},"shapedefaults":{"line":{"color":"#2a3f5f"}},"annotationdefaults":{"arrowcolor":"#2a3f5f","arrowhead":0,"arrowwidth":1},"geo":{"bgcolor":"white","landcolor":"#E5ECF6","subunitcolor":"white","showland":true,"showlakes":true,"lakecolor":"white"},"title":{"x":0.05},"mapbox":{"style":"light"}}}},                        {"responsive": true}                    ).then(function(){
                             
-var gd = document.getElementById('67b96029-6568-4a4b-9d87-6713242f312f');
+var gd = document.getElementById('f1170a22-c0d2-481f-8a63-8325adc1f32d');
 var x = new MutationObserver(function (mutations, observer) {{
         var display = window.getComputedStyle(gd).display;
         if (!display || display === 'none') {{
